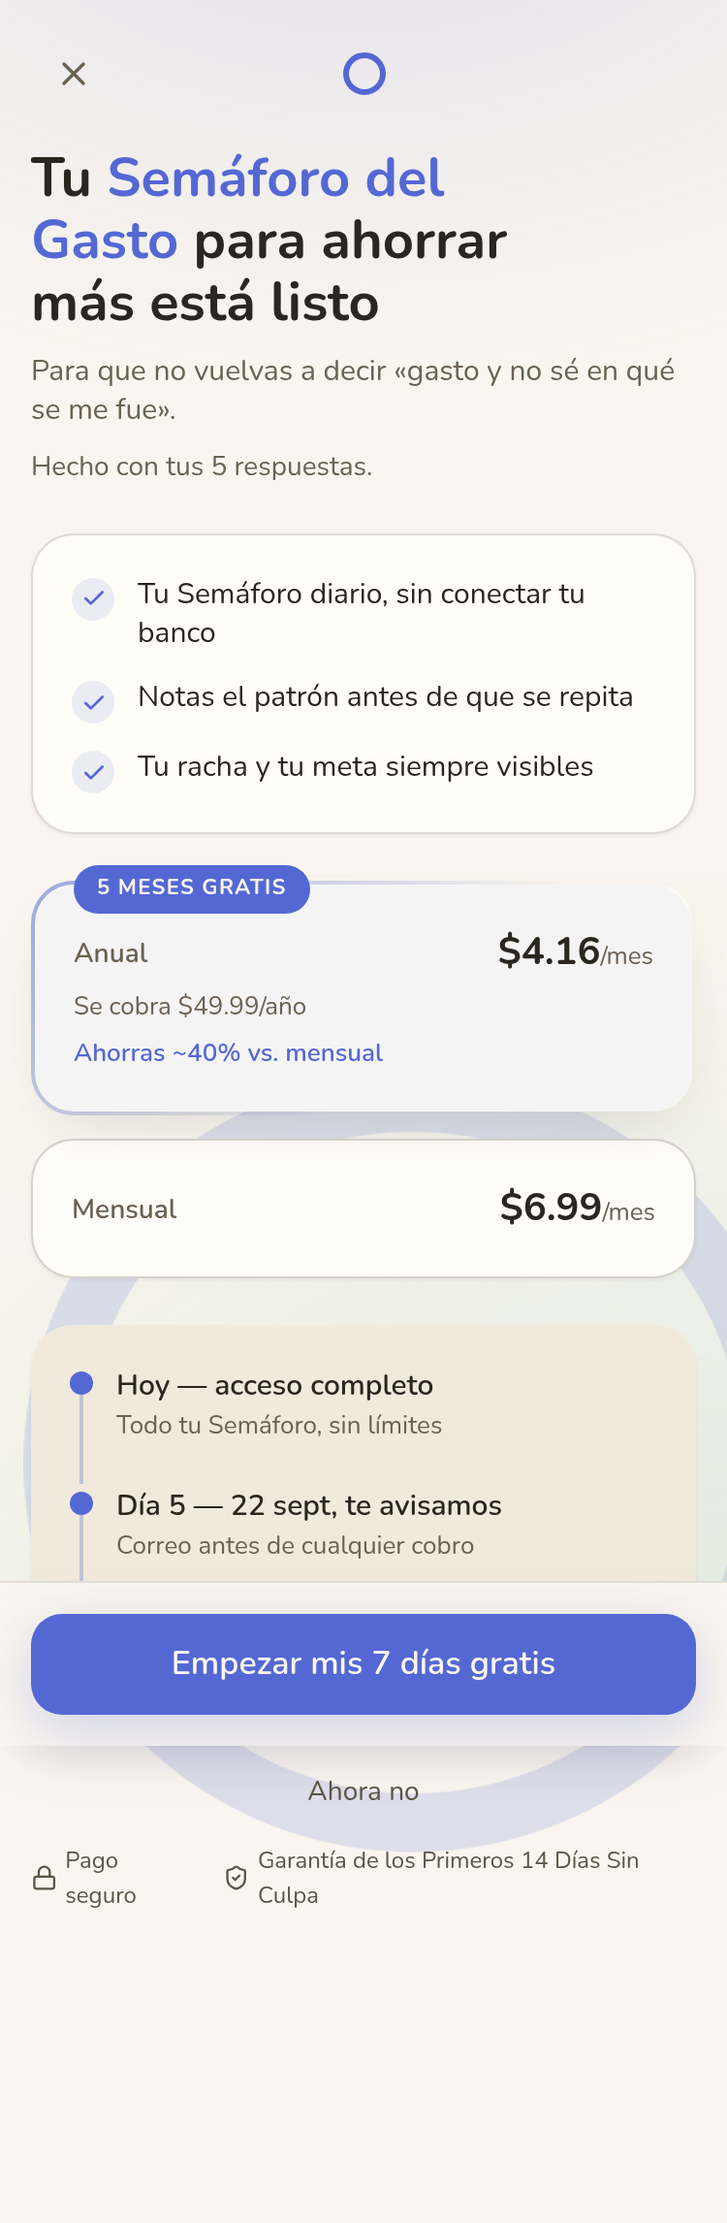
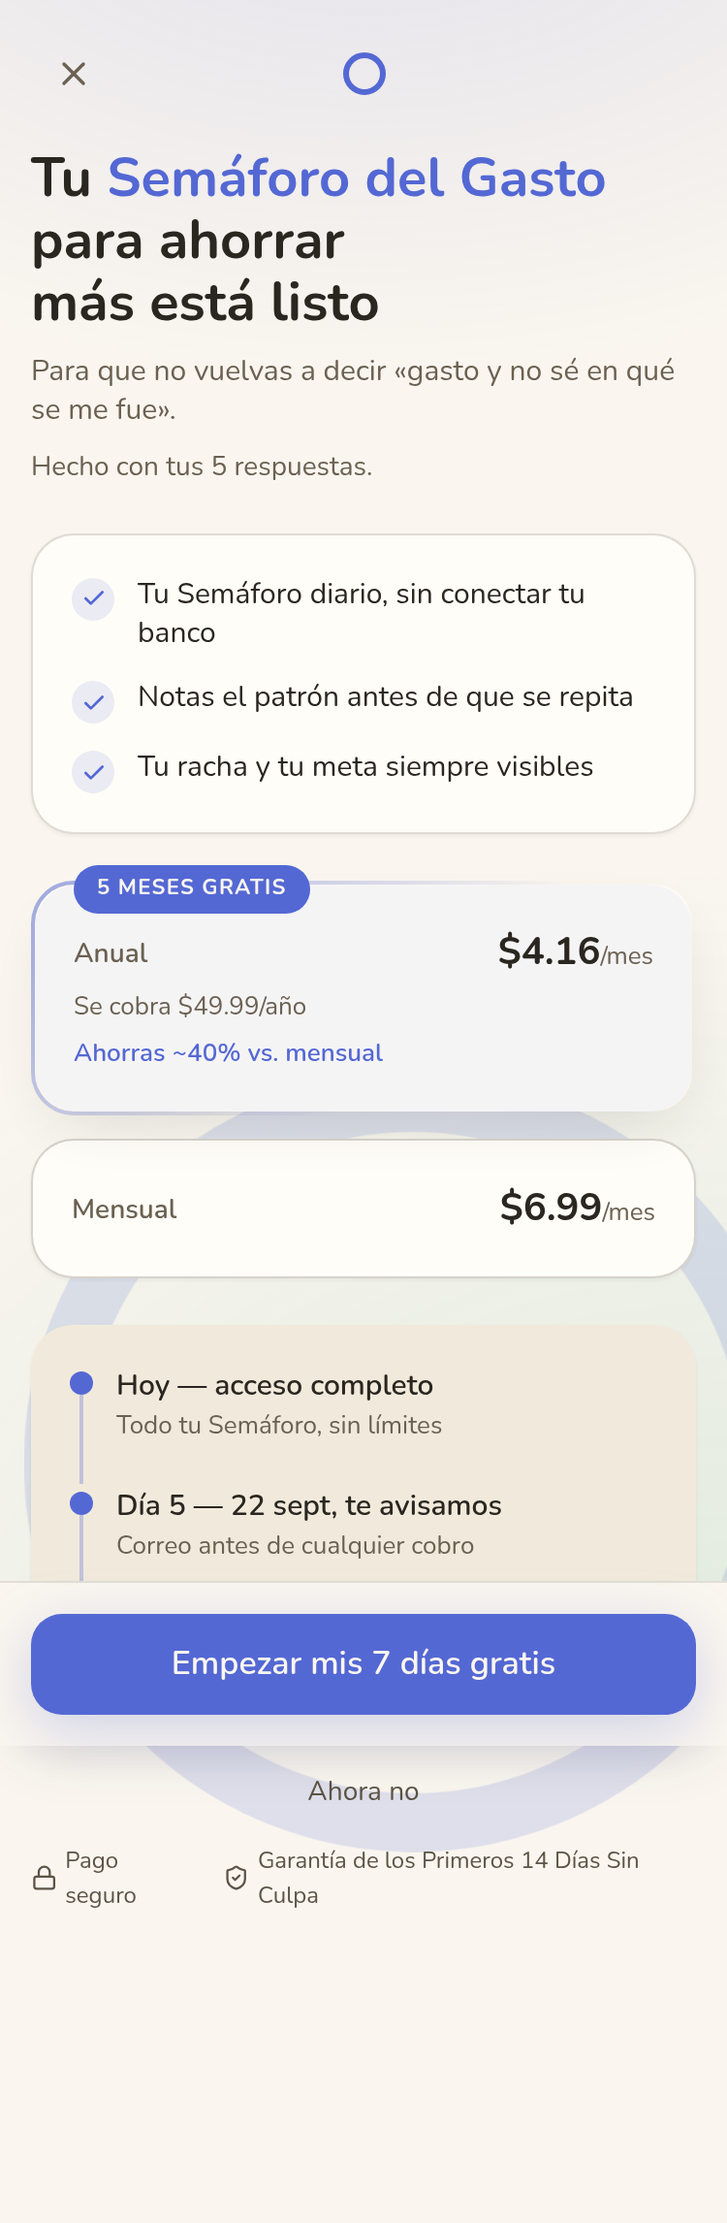
fix: accesibilidad de teclado en ConfirmSalir + jerarquía del titular del paywall
- El titular del paywall partía "Semáforo del Gasto" en dos líneas,
  diluyendo el golpe visual de la palabra clave de marca — whitespace-nowrap.
- ConfirmSalir no tenía role="dialog"/aria-modal, no movía el foco al abrirse
  ni cerraba con Escape — un usuario de teclado seguía tabulando por los
  controles de fondo antes de llegar a los botones del modal. FunnelButton
  ahora reenvía su ref (forwardRef) para poder enfocar "Seguir aquí" al abrir.
- El mensaje de error del timeout de 7s no tenía aria-live — un lector de
  pantalla no se enteraba de que la acción había fallado.

Claude-Session: https://claude.ai/code/session_013BYtLeMwZuWh58hVzwvyD5

Changed region(s): [[0.0307, 0.062, 0.828, 0.1239]]

diff --git a/components/funnel/ui.tsx b/components/funnel/ui.tsx
@@ -5,7 +5,7 @@
 // el kit de landing (components/landing/tokens.css, ya global vía globals.css) —
 // cero valores nuevos de marca aquí, solo estructura y comportamiento.
 
-import { useEffect, useRef, useState, type KeyboardEvent, type ReactNode } from 'react';
+import { forwardRef, useEffect, useRef, useState, type KeyboardEvent, type ReactNode } from 'react';
 import { AnimatePresence, motion, useReducedMotion } from 'motion/react';
 import { ChevronLeft, Check, X } from 'lucide-react';
 import type { LucideIcon } from 'lucide-react';
@@ -76,23 +76,19 @@ export function FunnelHeader({
 
 /* ── <FunnelButton> — el CTA del funnel (equivalente a CtaButton del kit de
    landing, pero como <button> con onClick — aquí no navegamos por href). ── */
-export function FunnelButton({
-  children,
-  onClick,
-  variant = 'solid',
-  disabled = false,
-  cargando = false,
-  type = 'button',
-}: {
-  children: ReactNode;
-  onClick?: () => void;
-  variant?: 'solid' | 'outline';
-  disabled?: boolean;
-  /** Muestra un anillo girando junto al texto — sin esto, "disabled" a secas
-   * se lee como congelado, no como "trabajando" (heurística 1). */
-  cargando?: boolean;
-  type?: 'button' | 'submit';
-}) {
+export const FunnelButton = forwardRef<
+  HTMLButtonElement,
+  {
+    children: ReactNode;
+    onClick?: () => void;
+    variant?: 'solid' | 'outline';
+    disabled?: boolean;
+    /** Muestra un anillo girando junto al texto — sin esto, "disabled" a secas
+     * se lee como congelado, no como "trabajando" (heurística 1). */
+    cargando?: boolean;
+    type?: 'button' | 'submit';
+  }
+>(function FunnelButton({ children, onClick, variant = 'solid', disabled = false, cargando = false, type = 'button' }, ref) {
   const reduce = useReducedMotion();
   const estilo =
     variant === 'outline'
@@ -100,6 +96,7 @@ export function FunnelButton({
       : 'bg-[var(--accent)] text-[var(--bg)] shadow-[0_8px_30px_color-mix(in_oklab,var(--accent)_25%,transparent)] hover:bg-[color-mix(in_oklab,var(--accent)_88%,var(--text-primary))]';
   return (
     <motion.button
+      ref={ref}
       type={type}
       whileTap={disabled ? undefined : { scale: 0.97 }}
       onClick={onClick}
@@ -117,7 +114,7 @@ export function FunnelButton({
       {children}
     </motion.button>
   );
-}
+});
 
 /* ── <OptionChip> — chip de opción única, ancho completo (50 §A2/A3).
    Tap → marca seleccionado → pausa 300ms visible → onSelect (auto-avance). ── */
@@ -356,6 +353,16 @@ export function ConfirmSalir({
   labelSalir?: string;
 }) {
   const reduce = useReducedMotion();
+  const botonSeguirRef = useRef<HTMLButtonElement>(null);
+
+  useEffect(() => {
+    if (abierto) botonSeguirRef.current?.focus();
+  }, [abierto]);
+
+  function alPresionarTecla(e: KeyboardEvent<HTMLDivElement>) {
+    if (e.key === 'Escape') onSeguir(); // Escape = quedarse, no perder el progreso por accidente
+  }
+
   return (
     <AnimatePresence>
       {abierto && (
@@ -364,19 +371,27 @@ export function ConfirmSalir({
           animate={{ opacity: 1 }}
           exit={{ opacity: 0 }}
           transition={{ duration: reduce ? 0.1 : 0.2 }}
+          onKeyDown={alPresionarTecla}
           className="fixed inset-0 z-50 flex items-center justify-center bg-[color-mix(in_oklab,var(--text-primary)_45%,transparent)] px-6"
         >
           <motion.div
+            role="dialog"
+            aria-modal="true"
+            aria-labelledby="confirm-salir-titulo"
             initial={{ opacity: 0, scale: reduce ? 1 : 0.94, y: reduce ? 0 : 8 }}
             animate={{ opacity: 1, scale: 1, y: 0 }}
             exit={{ opacity: 0, scale: reduce ? 1 : 0.94, y: reduce ? 0 : 8 }}
             transition={{ duration: reduce ? 0.1 : 0.25, ease: [0.16, 1, 0.3, 1] }}
             className="w-full max-w-[340px] rounded-[var(--radius-card)] bg-[var(--surface)] p-6 shadow-[var(--shadow-2)]"
           >
-            <h2 className="text-[18px] font-bold text-[var(--text-primary)] [font-family:var(--font-display)]">¿Salir?</h2>
+            <h2 id="confirm-salir-titulo" className="text-[18px] font-bold text-[var(--text-primary)] [font-family:var(--font-display)]">
+              ¿Salir?
+            </h2>
             <p className="mt-2 text-[14px] leading-snug text-[var(--text-secondary)]">{mensaje}</p>
             <div className="mt-5 flex flex-col gap-2">
-              <FunnelButton onClick={onSeguir}>Seguir aquí</FunnelButton>
+              <FunnelButton ref={botonSeguirRef} onClick={onSeguir}>
+                Seguir aquí
+              </FunnelButton>
               <FunnelButton onClick={onSalir} variant="outline">
                 {labelSalir}
               </FunnelButton>

diff --git a/app/paywall/page.tsx b/app/paywall/page.tsx
@@ -151,7 +151,7 @@ export default function Paywall() {
         <div className="mt-4 flex flex-col gap-6">
           <Bloque indice={0} reduce={reduce}>
             <h1 className="text-balance text-[28px] font-bold leading-[1.15] text-[var(--text-primary)] [font-family:var(--font-display)]">
-              Tu <span className="text-[var(--accent)]">Semáforo del Gasto</span> para {metaHeadline} está listo
+              Tu <span className="whitespace-nowrap text-[var(--accent)]">Semáforo del Gasto</span> para {metaHeadline} está listo
             </h1>
             {dolorLabel && (
               <p className="mt-2 text-[15px] leading-snug text-[var(--text-secondary)]">
@@ -289,7 +289,7 @@ export default function Paywall() {
             {avanzando ? 'Un momento…' : `Empezar mis ${TRIAL_DIAS} días gratis`}
           </FunnelButton>
           {errorAvance && (
-            <p className="mt-2 text-center text-[13px] text-[var(--text-secondary)]">
+            <p role="status" aria-live="polite" className="mt-2 text-center text-[13px] text-[var(--text-secondary)]">
               Esto está tardando más de lo normal. Vuelve a intentarlo — si sigue sin avanzar, revisa tu conexión.
             </p>
           )}

diff --git a/docs/revisiones/paywall-veredicto.md b/docs/revisiones/paywall-veredicto.md
@@ -1,49 +1,47 @@
-# VEREDICTO revisor-visual — paywall (8ª ronda)
+# VEREDICTO revisor-visual — paywall
 Fecha: 2026-09-17 00:00
-Screenshot: docs/revisiones/paywall-375.png (+ docs/revisiones/paywall-cargando-375.png)
-Usabilidad: 33/40
-Craft: 14/20
+Screenshot: docs/revisiones/paywall-375.png (+ docs/revisiones/paywall-cargando-375.png, fase de carga)
+Usabilidad: 32/40
+Craft: 16/20
 Copy (si vende): 19/20
 Fidelidad (si hubo referencia): N-A
 Veredicto: NO LISTA
 
-## Desglose usabilidad /40
-h1 Visibilidad del estado: 3 — spinner en CTA (`cargando`), anillo+checklist con aria-live en LoadingPlan, feedback de selección de plan inmediato. Falta pulir la combinación disabled+opacity-40 durante "Un momento…" (se ve algo apagado a la vez que gira el spinner).
-h2 Lenguaje del usuario: 4 — cero jerga, copy natural en todo el flujo.
-h3 Control y libertad: 2 — el cierre (X) en la fase "cargando" navega directo sin confirmar (page.tsx L113), pero el mismo ícono en la fase "listo" sí confirma con un modal que además AFIRMA una pérdida de datos que no ocurre (las respuestas se persisten en localStorage — lib/onboarding.ts L87-93). Comportamiento inconsistente y mensaje inexacto.
-h4 Consistencia: 2 — la fase "cargando" no comparte el fondo con textura (`FunnelFondo`) que sí tiene el resto del funnel/paywall; salto visual brusco de plano a texturado al terminar de cargar. Sumado al punto anterior (mismo ícono X, dos comportamientos).
-h5 Prevención de errores: 4 — guard contra doble-tap (`if (avanzando) return`), selección de plan sin posibilidad de error, timeout con recuperación.
-h6 Reconocer vs recordar: 4 — precios, fechas reales y oferta siempre visibles, cero memoria requerida.
-h7 Flexibilidad: 3 — buen default (plan anual preseleccionado), navegación por teclado nativa en los botones; sin atajos adicionales para el usuario avanzado (esperable en este tipo de pantalla).
-h8 Estético y minimalista: 3 — una sola acción primaria, secundaria de bajo peso ("Ahora no"); la dispersión de tamaños tipográficos (ver craft eje 1) y el fondo plano de "cargando" restan algo de pulido.
-h9 Errores con solución: 4 — mensaje de error de avance claro (qué pasó + qué hacer), sin jerga técnica.
-h10 Ayuda contextual: 4 — el loading personaliza con las respuestas reales del usuario, trust row explica seguridad/garantía.
+## Desglose usabilidad (Nielsen, /40)
+- h1 Visibilidad del estado: 4 — spinner+texto "Un momento…" al tocar el CTA, guard contra doble-tap (`if (avanzando) return`), y salvaguarda de timeout a 7s con mensaje de error visible y CTA reutilizable para reintentar (app/paywall/page.tsx:66-83). Loading con anillo + checklist que se va completando. Nivel ejemplar para una pantalla de cobro.
+- h2 Lenguaje del usuario: 3 — copy 100% en español coloquial, sin jerga ni inglés crudo. "Garantía de los Primeros 14 Días Sin Culpa" en Title Case lee como nombre propio de garantía (técnica de copy válida), no como anglicismo.
+- h3 Control y libertad: 3 — VERIFICADO EN CÓDIGO: el hallazgo real de la ronda 8 (ConfirmSalir afirmaba "perderás las respuestas de tu quiz" cuando ya estaban en localStorage) está corregido: ambas fases pasan el mismo `mensaje="Tus respuestas ya están guardadas — puedes volver a esto cuando quieras."` y el mismo `labelSalir="Salir"` (app/paywall/page.tsx:118-124 y 298-304) — cierre consistente entre "cargando" y "listo", ya no hay dos comportamientos para el mismo ícono X. Cierre visible en ambas fases (X arriba + "Ahora no"). Resta: `ConfirmSalir` (components/funnel/ui.tsx:298-328) no tiene `role="dialog"`/`aria-modal`, no mueve el foco al primer botón al abrirse ni cierra con Escape — un usuario de teclado que dispara "Salir" sigue tabulando por los controles de fondo antes de llegar a "Seguir aquí"/"Salir". No baja más porque el flujo funciona al tacto/mouse (mayoría de uso real) y el mensaje ya es honesto.
+- h4 Consistencia: 3 — `FunnelFondo` ahora es un componente único compartido por onboarding, paywall "cargando" y paywall "listo" (components/funnel/ui.tsx:190-240), confirmado en código y en ambos screenshots (mismo mesh + anillo). El botón de cerrar de la fase "listo" duplica a mano el markup de `FunnelHeader` en vez de reutilizarlo — visualmente idéntico hoy, pero es deuda de mantenimiento (dos lugares que pueden divergir).
+- h5 Prevención de errores: 3 — nada que validar (sin formularios), selección de plan sin estados inválidos, doble-tap del CTA bloqueado.
+- h6 Reconocer vs recordar: 4 — fechas de calendario explícitas ("Día 5 — 22 sept", "Día 7 — [fecha], 1er cobro: $X"), montos exactos por plan, cero carga de memoria entre pantallas.
+- h7 Flexibilidad y eficiencia: 3 — VERIFICADO EN CÓDIGO: plan anual preseleccionado por defecto (ahorra un paso a la mayoría), todos los controles son `<button>` nativos con foco visible y operables por teclado. Sin atajos adicionales, pero es lo esperable en una pantalla de checkout.
+- h8 Estético y minimalista: 3 — 1 CTA primario + "Ahora no" secundario + X terciario (cumple el límite), jerarquía tipográfica clara en el screenshot, ningún elemento decorativo sin función.
+- h9 Errores con solución: 3 — "Esto está tardando más de lo normal. Vuelve a intentarlo — si sigue sin avanzar, revisa tu conexión." dice qué pasó y qué hacer, sin jerga. El `pb-40` (antes `pb-32`, app/paywall/page.tsx:136) alcanza para que este mensaje no quede tapado por la barra fija del CTA. Resta: el `<p>` del error (líneas 291-295) no tiene `aria-live`, a diferencia del checklist de `LoadingPlan.tsx:83` que sí lo tiene — un lector de pantalla no se entera de que apareció el error.
+- h10 Ayuda contextual: 3 — sin pantallas mudas; el loading narra explícitamente qué está "armando" con las respuestas reales del usuario.
 
-## Desglose craft /20
-Jerarquía: 3 — se lee bien en el squint test, pero la pantalla usa 7 tamaños de texto (28/20/15/14/13/12/11px) que no coinciden con los 4 valores declarados en FICHA-ARTE.md (34/19/15/12).
-Profundidad: 2 — la fase "listo" tiene 3 niveles correctos (bg/surface/surface-2 + mesh + anillo), pero la fase "cargando" (primera pantalla que ve el usuario en esta ruta) es un fill plano total, sin ningún tratamiento — coincide con el ancla "0 = fondo de un fill plano" del eje.
-Identidad ownable: 3 — anillo de respiración consistente (logo, fondo, progreso de carga), paleta/tipografía fiel a FICHA-ARTE, sin coincidir con las paletas vetadas del test anti-clon. Sólido pero no extraordinario.
-Movimiento: 3 — stagger de entrada, dibujado de anillo, tap feedback, modal con AnimatePresence y reduced-motion respetados; falta transición entre la fase "cargando" y "listo" (corte duro, sin fade) — una de las 7 baseline queda incompleta en el momento más importante de la pantalla.
-Encaje óptico: 3 — radios y paddings consistentes, badge y chips bien encajados; el mensaje de error dentro de la barra fija puede crecer más de lo que reserva el `pb-32` del contenido y tapar el bloque de confianza.
+**Gate de carga cognitiva: pasa.** Grupos ≤5 ítems, 1 decisión de 2 opciones, 1 acción primaria, nada que recordar entre pantallas, bloques de texto cortos, próximo paso obvio, cero elementos "muertos".
 
-## Desglose copy /20 (FICHA-AVATAR.md — nota: ficha marcada BORRADOR, no aprobada por el usuario)
-Idea única: 4 — "Semáforo del Gasto" nombrado y sostenido en hero + bullets.
-Especificidad y prueba: 3 — claims concretos y sin adjetivos vacíos, pero sin número verificable ni prueba social en esta pantalla.
-Emoción/dolor real: 4 — el subtítulo cita casi textual el dolor #1 de la ficha ("gasto y no sé en qué se me fue").
-Claridad de oferta: 4 — plan, precio, fechas de cobro y garantía (nombrada, con plazo, cerca del CTA) explícitos.
-Dirección a una acción: 4 — un solo tipo de CTA, primera persona ("mis 7 días gratis"), sin competencia visual.
-Sub-checks: garantía nombrada con plazo cerca del CTA de compra — CUMPLE (coincide textualmente con la landing: "Garantía de los Primeros 14 Días Sin Culpa").
+## Desglose craft (/20)
+- Jerarquía: 3 — 4 niveles reconocibles (display 28px → body 14-16px → label 11-13px), pero el titular parte la frase resaltada en acento "Semáforo del Gasto" en dos líneas ("Tu Semáforo del / Gasto para ahorrar más está listo" — app/paywall/page.tsx:153-155), diluyendo el golpe visual de la palabra clave. Además conviven ~8 tamaños distintos de fuente en la pantalla "listo" (28/20/17/15/14/13/12/11), más de los 3 recomendados por vista.
+- Profundidad: 4 — FIX VERIFICADO: `LoadingPlan` ahora renderiza dentro de `<FunnelFondo />` (app/paywall/page.tsx:116), el mismo mesh radial + anillo pulsante que usa el resto del funnel (antes era un fill plano, causa única de la caída craft 16→14 en ronda 8). Confirmado en el screenshot de "cargando": gradiente superior + anillo inferior-derecho visibles, igual que en "listo". Recupera limpiamente los 3 niveles (base con tinte, superficies elevadas con shadow-1/shadow-2, superficie hundida `--surface-2` en la card de timeline).
+- Identidad ownable: 3 — timeline con línea conectora + nodos, checks custom (CheckCustom, no emoji), hairline degradé en el plan anual, badge "5 MESES GRATIS", anillo de respiración de marca. Paleta crema + azul-lila no coincide con ninguna de las dos paletas vetadas del test anti-clon (papel+tinta verde+Petrona/Karla, o pizarra+latón+Archivo) — no aplica el auto-cero.
+- Movimiento: 3 — stagger de entrada por bloque (`Bloque`, delay indice*0.07), anillo de progreso que se dibuja y % que cuenta en el loading, `whileTap` en todos los botones, modal `ConfirmSalir` con fade+scale suave, `useReducedMotion()` respetado en cada pieza (Bloque, FunnelButton, LoadingPlan, FunnelFondo). No aplica tabs/celebración en esta pantalla.
+- Encaje óptico: 3 — radios (`--radius-card`/`--radius-button`) consistentes en toda la pantalla, precios bien alineados con su "/mes", padding p-5 simétrico en todas las cards. Ver nota de jerarquía sobre el wrap del titular.
 
-## Verificación de los 5 fixes reportados de la ronda 7
-1. CTA fijo `fixed inset-x-0 bottom-0` con `pb-32` en el contenido — CONFIRMADO, ya no depende de scroll. Contraste del CTA (#5468d4 sobre #faf6ef) ≈4.6:1, área táctil 52px de alto x ancho completo — pasa las 4 anclas del CTA héroe vivo.
-2. Nombre de garantía igualado a la landing ("Garantía de los Primeros 14 Días Sin Culpa") — CONFIRMADO, coincide letra por letra con app/page.tsx L139.
-3. `cargando` en FunnelButton con anillo girando + `prefers-reduced-motion` — CONFIRMADO (components/funnel/ui.tsx L102-109).
-4. `onClose` en LoadingPlan con X visible — CONFIRMADO que existe, pero es INCONSISTENTE con el cierre de la pantalla "listo" (ver h3/h4 arriba) y el mensaje de confirmación de la otra pantalla es inexacto.
-5. Línea redundante bajo el CTA eliminada — CONFIRMADO, solo quedan las 2 menciones del timeline (Día 5 / Día 7).
+**Verificación FICHA-ARTE: FIEL.** components/landing/tokens.css confirma bg `#faf6ef`, accent `#5468d4`, radius-card 22px, radius-button 16px y `--font-display`/`--font-body` = Nunito — coincide exactamente con FICHA-ARTE.md. El bloque de tokens oscuros (líneas 61-77 de tokens.css) es un comentario de ejemplo, no CSS vivo — no contamina el modo claro real.
 
-## Top defectos
-1. [Pantalla "cargando", fondo completo] Fill plano sin ningún tratamiento de profundidad mientras el resto del funnel usa `FunnelFondo` (mesh+anillo) → app/paywall/page.tsx L110-116 no invoca `<FunnelFondo />`, components/funnel/LoadingPlan.tsx no la importa. Fix: envolver LoadingPlan con el mismo `<FunnelFondo />` compartido.
-2. [Botón X — fase "cargando" vs. fase "listo"] Comportamiento inconsistente: LoadingPlan.onClose navega directo sin confirmar (page.tsx L113: `onClose={() => router.push('/')}`) mientras el X de la fase "listo" dispara un modal de confirmación (L126-138) que además AFIRMA pérdida de datos que no ocurre (las respuestas se guardan en localStorage — lib/onboarding.ts L87-93). Fix: usar el mismo `salirConfirmando` en ambas fases y corregir el texto del modal (ConfirmSalir en components/funnel/ui.tsx L300-303) para no prometer una pérdida que no sucede.
-3. [Barra de error bajo el CTA fijo] El mensaje de `errorAvance` (2 líneas) se inserta dentro de la barra `fixed` (page.tsx L280-284) sin que el `pb-32` del contenido (L125) reserve espacio extra para ese caso — puede tapar el bloque de confianza/garantía. Fix: aumentar el padding inferior condicionalmente cuando `errorAvance` es true.
-4. [Escala tipográfica de toda la pantalla] 7 tamaños de texto en uso (28/20/15/14/13/12/11px) que no coinciden con los 4 declarados en FICHA-ARTE.md ("display 34 / title 19 / body 15 / label 12") → page.tsx L142 (h1 28px), L192/L214 (precio 20px), L187 (badge 11px). Fix: alinear el h1 a 34px o documentar formalmente una escala de funnel distinta a la de display; consolidar los tamaños secundarios a 2-3 valores.
-5. [Transición de fase cargando→listo] Corte duro sin fade/slide entre los dos `return` de Paywall (page.tsx L110-116 vs. L118+) — rompe la baseline de "transición suave entre pantallas" justo cuando aparece la oferta. Fix: envolver ambos estados en `AnimatePresence` con una transición de 200-300ms.
+## Desglose copy (/20) — FICHA-AVATAR.md usada para la traza
+- Idea única: 4 — "Semáforo del Gasto" es el mecanismo bautizado, repetido en hero, checklist y loading; responde a la objeción #2 de la ficha ("no quiero conectar mi cuenta bancaria") con "sin conectar tu banco".
+- Especificidad y prueba: 3 — "Hecho con tus 5 respuestas" personaliza con dato real; precios, % de ahorro y fechas son verificables; no hay prueba externa (testimonio/demo) en esta pantalla, solo especificidad interna.
+- Emoción/dolor real: 4 — "Para que no vuelvas a decir «gasto y no sé en qué se me fue»" es casi cita literal del dolor #1 de FICHA-AVATAR ("Otra vez gasté sin darme cuenta y ahora no sé en qué se me fue la plata").
+- Claridad de oferta: 4 — trial de 7 días, fechas de cobro exactas, garantía nombrada con plazo ("Garantía de los Primeros 14 Días Sin Culpa") cerca del CTA — sub-check binario de garantía nombrada: CUMPLE.
+- Dirección a una acción: 4 — un solo CTA primario en 1ª persona ("Empezar mis 7 días gratis"), "Ahora no" es salida de baja fricción, no una acción que compita.
+
+## TOP DEFECTOS
+1. [app/paywall/page.tsx:153-155, titular "listo"] La frase resaltada en acento "Semáforo del Gasto" se parte en dos líneas a 375px, diluyendo el golpe visual de la palabra clave → forzar que la frase de acento no rompa línea (ej. `whitespace-nowrap` en el `<span>` o acortar "para ahorrar más está listo" a algo más corto).
+2. [components/funnel/ui.tsx:298-328, `ConfirmSalir`] El modal no tiene `role="dialog"`/`aria-modal="true"`, no mueve el foco a "Seguir aquí" al abrirse ni cierra con Escape → agregar esos tres atributos/comportamientos; hoy un usuario de teclado que pulsa "Salir" sigue tabulando por los controles de fondo.
+3. [app/paywall/page.tsx:291-295, mensaje de `errorAvance`] No tiene `aria-live`, a diferencia del checklist de `LoadingPlan.tsx:83` que sí lo tiene → envolver el `<p>` en `role="status" aria-live="polite"` para que un lector de pantalla anuncie el error del timeout.
+4. [app/paywall/page.tsx, pantalla "listo" completa] ~8 tamaños de fuente distintos (28/20/17/15/14/13/12/11px) conviven en una sola vista, por encima del máximo de 3 recomendado → consolidar los tamaños de 13/12/11px en un único token de "label".
+5. [components/funnel/ui.tsx, header de "listo" en app/paywall/page.tsx:137-149 vs `FunnelHeader`] El botón de cerrar de la fase "listo" reimplementa a mano el markup que ya existe en `FunnelHeader` (mismo componente usado en onboarding) → reutilizar `FunnelHeader` (sin barra de progreso) en vez de duplicar el markup, para que un cambio futuro no diverja entre pantallas.
+
+**Nota de proceso:** los 3 fixes reportados para esta ronda se verificaron línea por línea y SÍ funcionan como se describe: (1) `FunnelFondo` compartido en `LoadingPlan` — confirmado en código y en ambos screenshots; (2) mensaje de `ConfirmSalir` honesto y consistente entre fases — confirmado, mismo string en ambas invocaciones; (3) `pb-40` alcanza para no tapar el mensaje de error bajo el CTA fijo — confirmado por cálculo de alturas. El gate de craft (≥16/20) ya se cumple gracias al fix de profundidad. El gate de usabilidad (≥36/40) sigue sin alcanzarse: no por regresiones nuevas, sino por hallazgos de accesibilidad de teclado/lector de pantalla (defectos 2 y 3) y un ajuste fino de jerarquía tipográfica (defectos 1 y 4) que ninguna ronda anterior había atendido — son defectos concretos y accionables, no refinamiento subjetivo: cada uno tiene ubicación exacta y fix de una línea.
